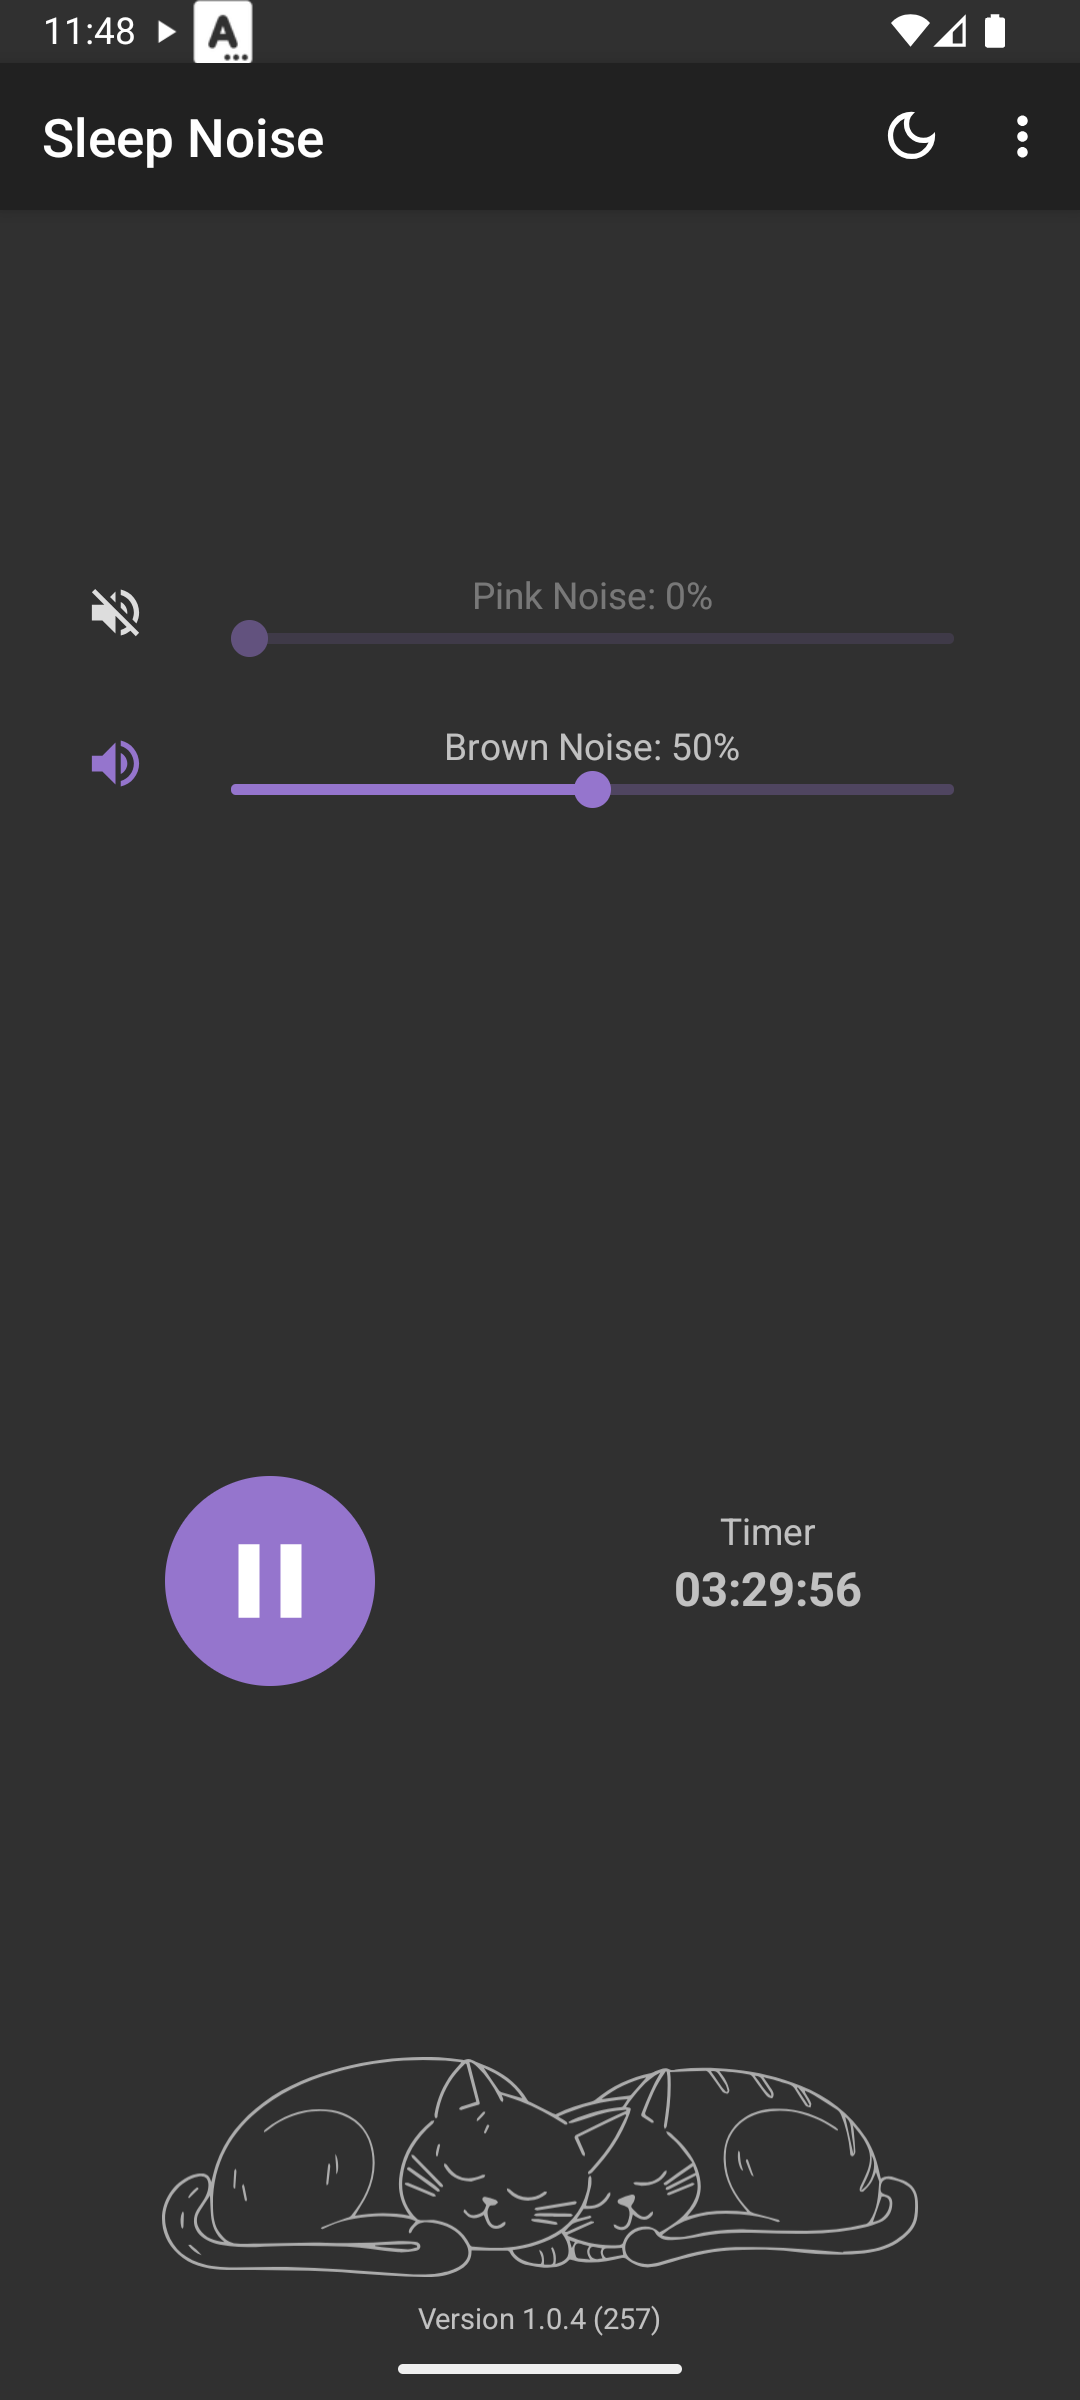
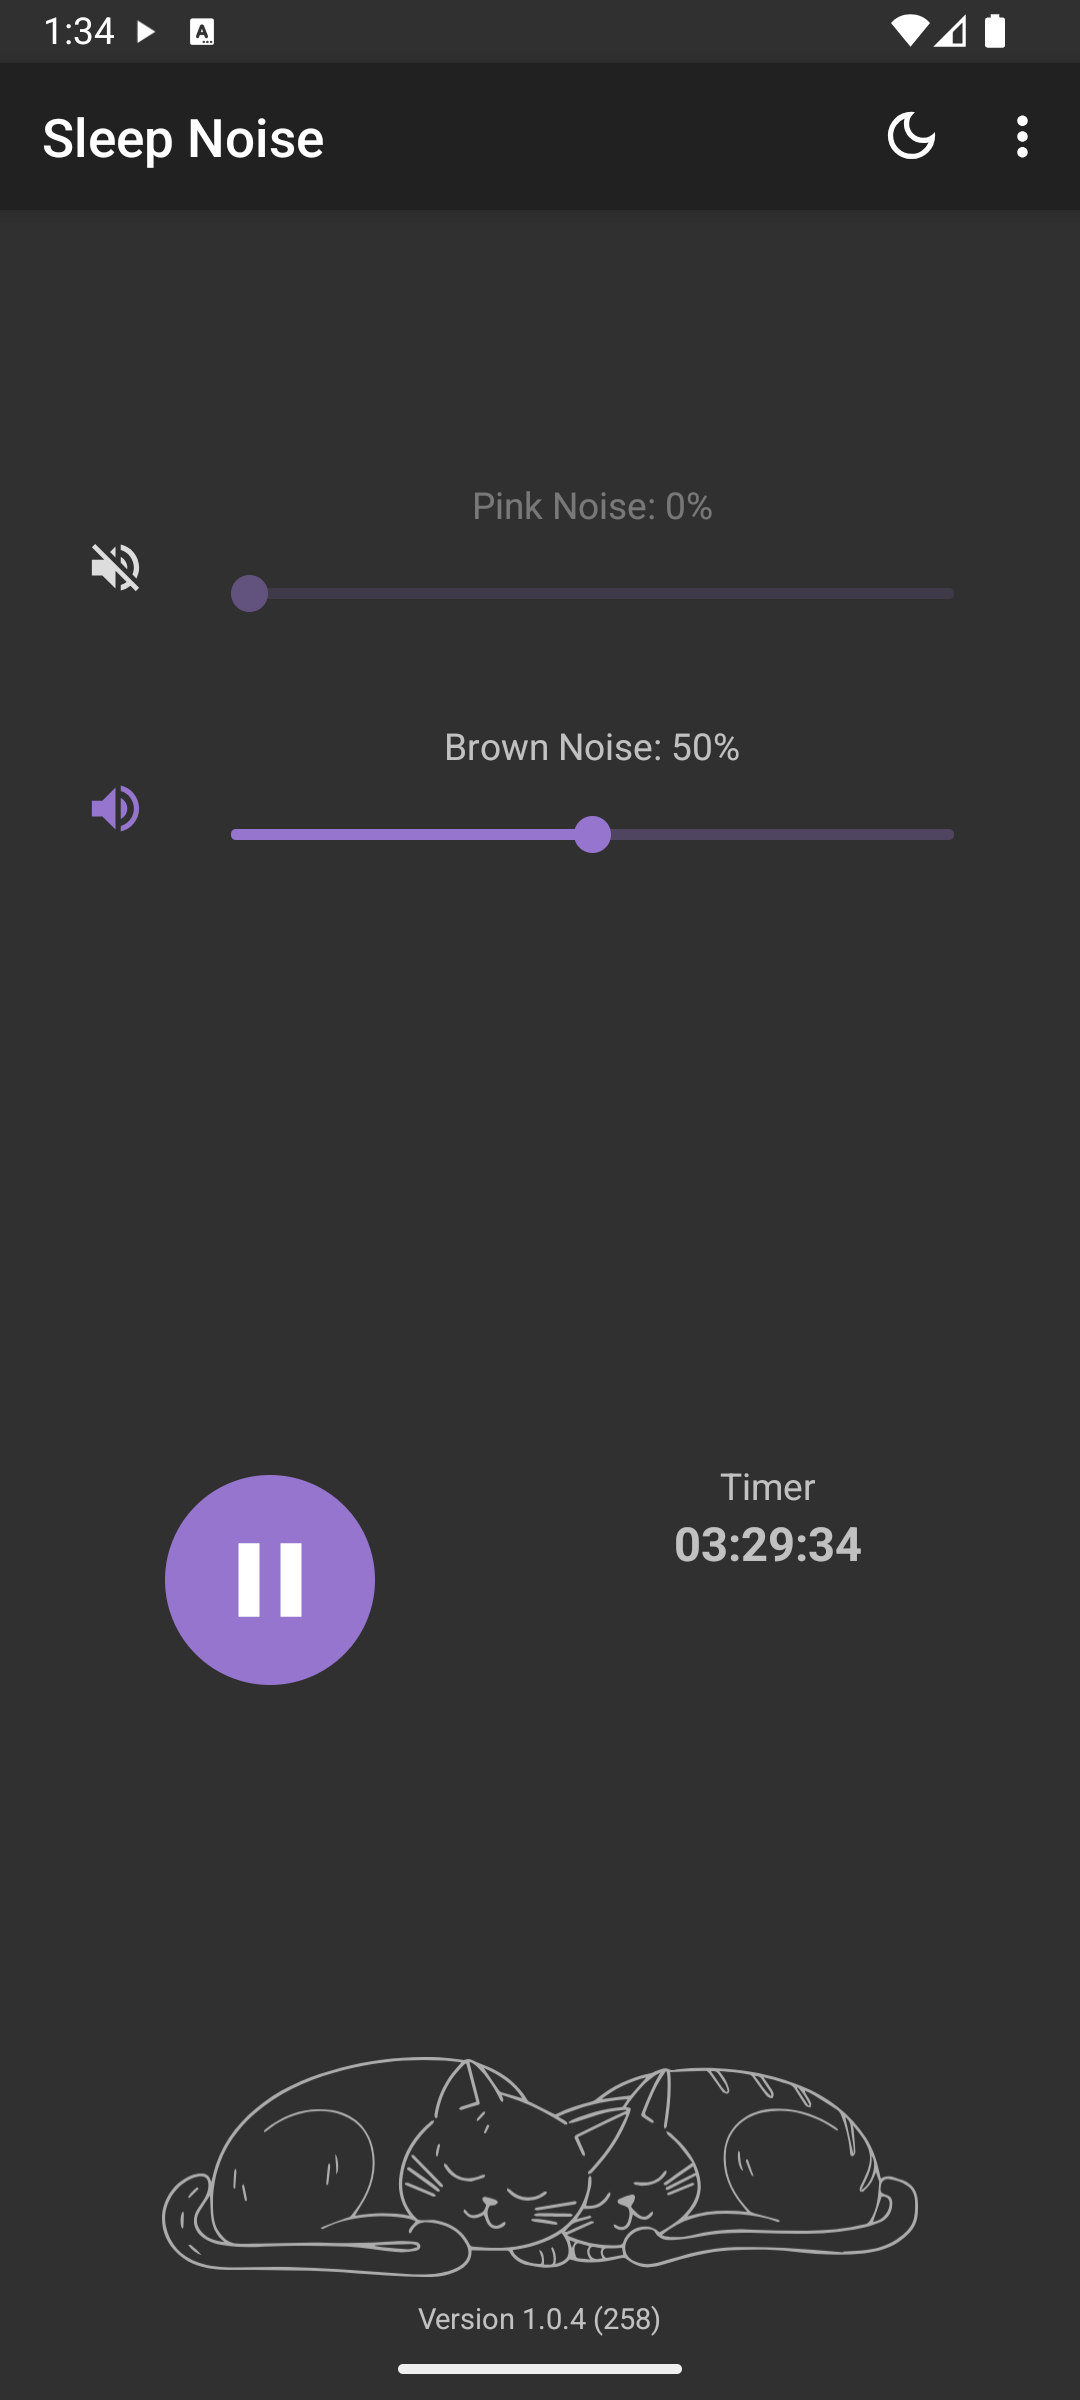
fix: address review comments on the purple theme
Three threads, from two independent reviews of 6ca16f8.

The slider style measured 14dp tall, since a SeekBar takes the larger of its
capped track and its thumb. That is down from the 18dp main ships and far
under the 48dp minimum touch target, which the app missed before this branch
too — 17dp of vertical padding either side of the thumb now puts every slider
at 48dp with the groove still 4dp.

Both themes now sit on plain Theme.AppCompat and setDefaultNightMode is gone.
The call was not dead — with a DayNight parent it is what held the dark
variant — but it is the long way round to a theme that is dark on its own,
and the light theme it served is what this branch removed. Both themes look
identical to before on an emulator.

CLAUDE.md still claimed 24 lint-baseline entries where the file now holds 22,
and still listed menu/ as carrying a theme popup that is deleted.

The README screenshots are retaken for the taller sliders.

diff --git a/app/src/main/java/ru/pravbeseda/sleepnoise/MainActivity.kt b/app/src/main/java/ru/pravbeseda/sleepnoise/MainActivity.kt
@@ -264,8 +264,6 @@ class MainActivity : AppCompatActivity() {
     }
 
     private fun applyTheme(theme: AppTheme) {
-        // Neither theme is a light one, so night mode is on for both and only the style differs.
-        AppCompatDelegate.setDefaultNightMode(AppCompatDelegate.MODE_NIGHT_YES)
         setTheme(
             when (theme) {
                 AppTheme.PURPLE -> R.style.Theme_SleepNoise_Purple

diff --git a/CLAUDE.md b/CLAUDE.md
@@ -185,7 +185,7 @@ It checks out with `fetch-depth: 0` because `versionCode` is the commit count an
 
 Six secrets beyond `GOOGLE_SERVICES_JSON_B64`: `ANDROID_KEYSTORE_B64` (base64 of `.key/Drevo.Keystore`, decoded into `$RUNNER_TEMP`), `SN_KEY_ALIAS`, `SN_KEY_PASSWORD`, `SN_STORE_PASSWORD`, `FIREBASE_APP_ID` and `FIREBASE_SERVICE_ACCOUNT_JSON` (a service account with App Distribution Admin). An upload naming a tester group that does not exist succeeds and reaches nobody, so the `qa` group has to exist in the Firebase console.
 
-Lint runs with `warningsAsErrors`, so **a new warning fails the build**. The 24 pre-existing findings are parked in `app/lint-baseline.xml`; clearing them is phase 6 of the plan. After fixing one, regenerate with `./gradlew updateLintBaseline` — and strip the informational entries it adds back in, or later runs complain about baseline entries that no longer match.
+Lint runs with `warningsAsErrors`, so **a new warning fails the build**. The 22 pre-existing findings are parked in `app/lint-baseline.xml`; clearing them is phase 6 of the plan. After fixing one, regenerate with `./gradlew updateLintBaseline` — and strip the informational entries it adds back in, or later runs complain about baseline entries that no longer match.
 
 **Both baselines only ever shrink** — `app/lint-baseline.xml` and `config/detekt/baseline.xml` alike. Regenerating one to make a new warning disappear converts a
 five-minute fix into permanent debt, and does it invisibly — the build goes green and the count goes
@@ -385,8 +385,10 @@ press, no popup, in the enum's own order. **`purple` is the default**, so a fres
 colour the splash screen ends on. `AppTheme.fromKey` maps anything else to that default, which is how
 an install that stored the retired `light` or `system` is carried across.
 
-Both themes are dark ones, so `applyTheme` sets `MODE_NIGHT_YES` for either and only the style differs.
-That is why **there is no `values-night/`**: a night qualifier would answer for both themes at once, so
+Both themes are dark ones, so both are built on plain `Theme.AppCompat` — the dark one, with no day
+variant for a `uiMode` to select — and **night mode is not touched at all**: a `DayNight` parent held
+in the dark by a forced `MODE_NIGHT_YES` is the same appearance reached the long way round. For the
+same reason **there is no `values-night/`**: that qualifier would answer for both themes at once, so
 every colour that separates them is named in the style instead. `applyTheme` still runs **before**
 `super.onCreate`, and changing the theme still calls `recreate()`. The status bar is told to use light
 icons unconditionally — neither theme has a light background left for dark ones to sit on.
@@ -407,7 +409,7 @@ To add a language: create `values-XX/strings.xml` including the `lang` key, add 
 
 ## UI is Views, not Compose
 
-The build enables Compose (`buildFeatures.compose`, Compose BOM, material3, activity-compose), but **no Compose is used anywhere**. The entire UI is XML layouts with AppCompat: `activity_main.xml`, `noise_control_view.xml`, `timer_view.xml`, `dialog_credits.xml`, `item_lang.xml`, plus `menu/` for the action bar and theme popup. Follow the existing View-based approach unless deliberately migrating; don't assume Compose because the dependencies are present.
+The build enables Compose (`buildFeatures.compose`, Compose BOM, material3, activity-compose), but **no Compose is used anywhere**. The entire UI is XML layouts with AppCompat: `activity_main.xml`, `noise_control_view.xml`, `timer_view.xml`, `dialog_credits.xml`, `item_lang.xml`, plus `menu/` for the action bar. Follow the existing View-based approach unless deliberately migrating; don't assume Compose because the dependencies are present.
 
 `activity_main.xml` is a `ConstraintLayout` with a `Guideline` across it at 0.45: the noise rows own
 the height above the line and scroll inside it, and the play button with the timer centres in what is
